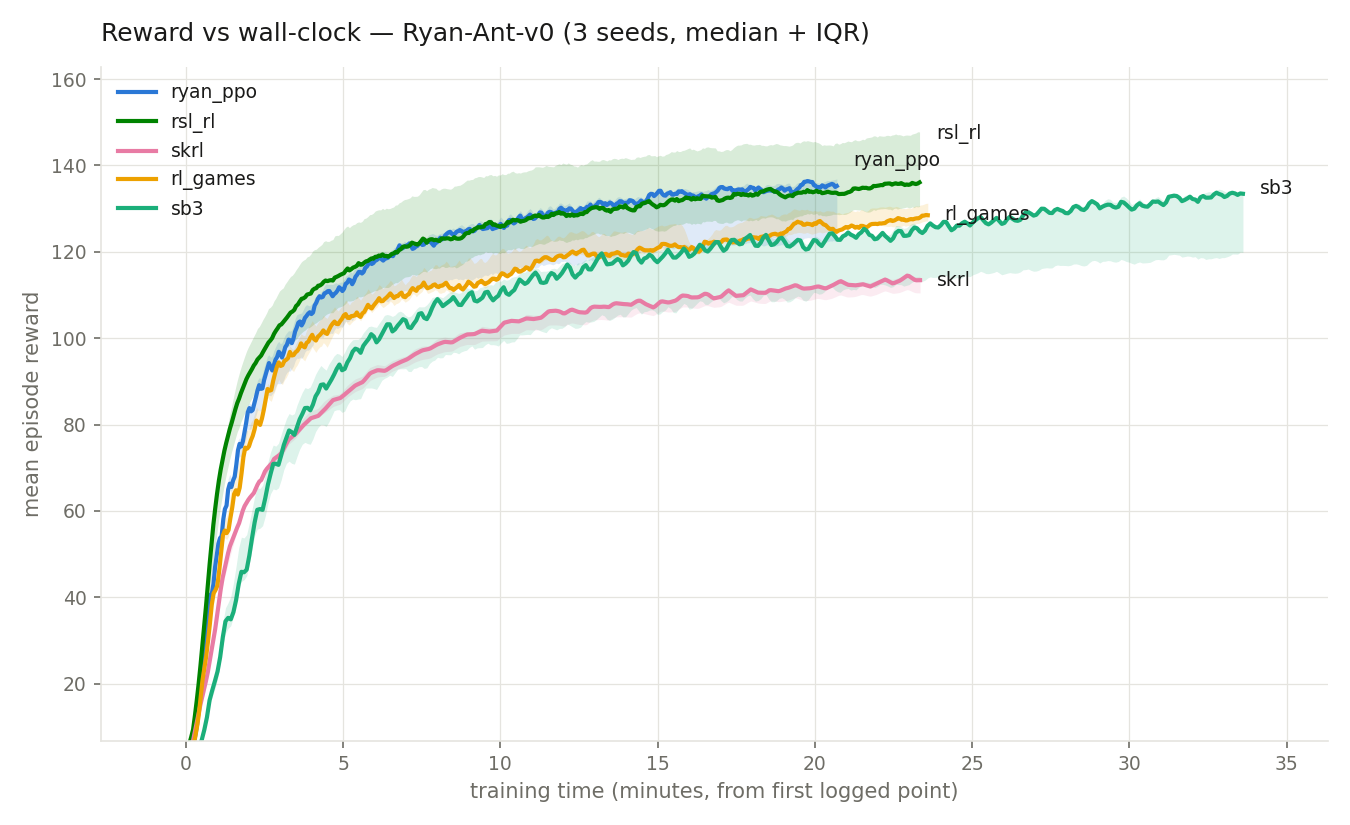
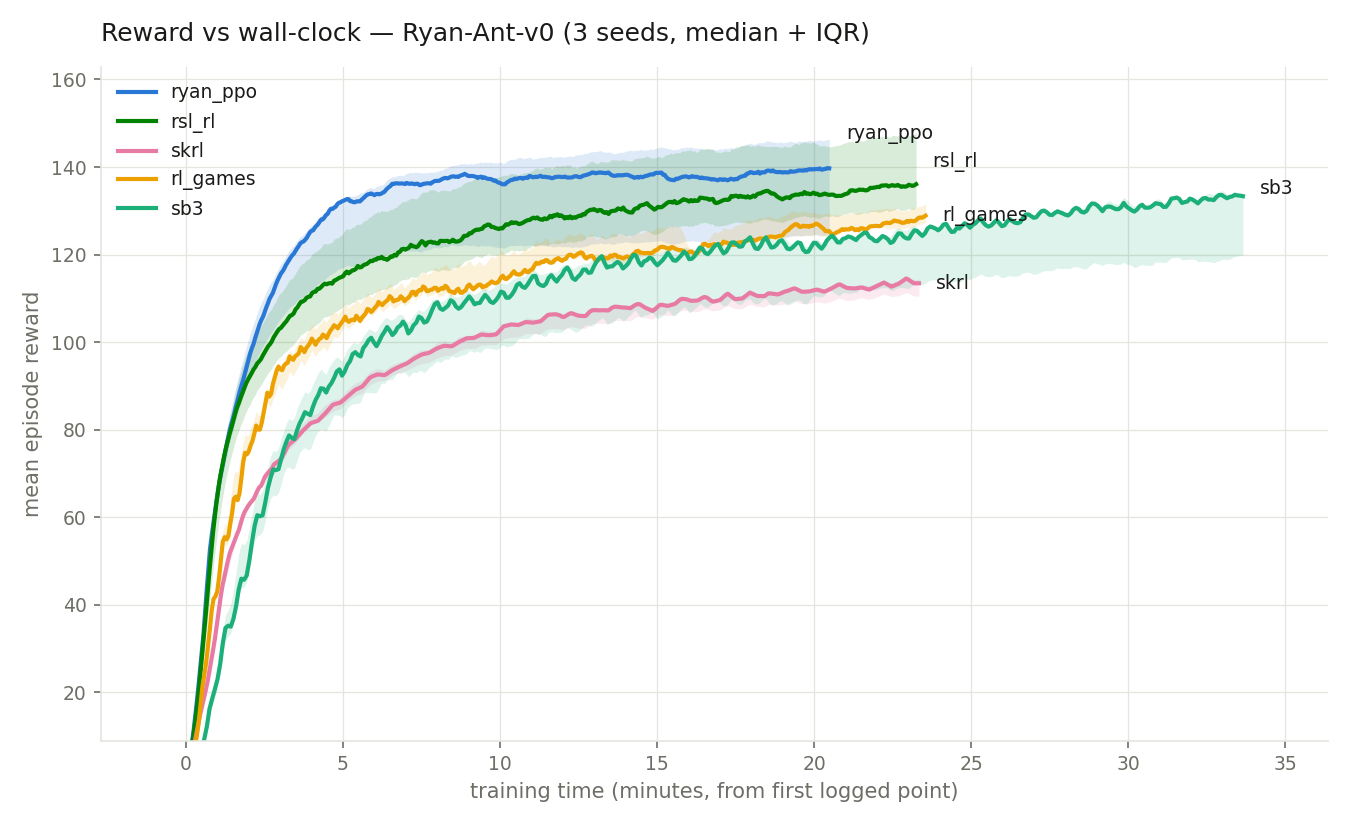
Updated README with up to date benchmark data.

diff --git a/README.md b/README.md
@@ -46,39 +46,39 @@ With the help of the python package [rich](https://github.com/textualize/rich), 
 Based on the recommendation in the official Isaac Lab documentation [here](https://docs.isaacsim.omniverse.nvidia.com/4.5.0/utilities/debugging/profiling_performance.html), I added support for code profiling using the Tracy profiler. This allows for live profiling of the performance of the training script. This will provide information for the time spent in each block of execution provide information that can be used to gauge and improve the efficiency of the training script, and various environments. To use this, simply add these flags to the script: "--profile --enable omni.kit.profiler.tracy".
 
 # Benchmarks
-I benchmarked this implementation against the four RL libraries bundled with Isaac Lab — [rsl_rl](https://github.com/leggedrobotics/rsl_rl), [rl_games](https://github.com/Denys88/rl_games), [skrl](https://github.com/Toni-SM/skrl), and [sb3](https://github.com/DLR-RM/stable-baselines3) — across three tasks of increasing difficulty: `Ryan-Cartpole-v0`, `Ryan-Ant-v0`, and `Ryan-Reach-SO-ARM101-Normalized-v0`. Every run used identical settings on the same GPU (RTX 3070) under Isaac Lab 3.0: 12,288 parallel environments, headless, and each library's agent config hyperparameter-matched to `ryan_ppo`. Each framework was run over **three seeds (42, 43, 44)**; the tables report the seed-averaged best mean episode reward reached during training, since the best checkpoint is the one deployed.
+I benchmarked this implementation against the four RL libraries bundled with Isaac Lab — [rsl_rl](https://github.com/leggedrobotics/rsl_rl), [rl_games](https://github.com/Denys88/rl_games), [skrl](https://github.com/Toni-SM/skrl), and [sb3](https://github.com/DLR-RM/stable-baselines3) — across three tasks of increasing difficulty: `Ryan-Cartpole-v0`, `Ryan-Ant-v0`, and `Ryan-Reach-SO-ARM101-Normalized-v0`. Every run used identical settings on the same GPU (RTX 3070) under Isaac Lab 3.0: 12,288 parallel environments, headless, and each library's agent config hyperparameter-matched to `ryan_ppo`. Each framework was run over **three seeds (42, 43, 44)**; the tables report the median across seeds of the final reward (averaged over the last 10% of the run) and of the best mean episode reward reached during training, since the best checkpoint is the one deployed.
 
 **Cartpole** — 1,000 iterations, 16 steps/env
 
-| Framework | Throughput (steps/s) | Wall-clock (min) | Best reward |
-|---|---:|---:|---:|
-| **ryan_ppo (this repo)** | **1,243,830** | **3.0** | 4.961 |
-| rl_games | 1,093,053 | 3.3 | 4.962 |
-| skrl | 1,073,521 | 3.3 | 4.956 |
-| rsl_rl | 1,033,656 | 3.4 | 4.958 |
-| sb3 | 666,278 | 5.2 | 4.297 |
+| Framework | Throughput (steps/s) | Wall-clock (min) | Final reward | Best reward |
+|---|---:|---:|---:|---:|
+| **ryan_ppo (this repo)** | **1,278,739** | **2.9** | 4.897 | 4.947 |
+| skrl | 1,071,080 | 3.3 | 4.733 | 4.956 |
+| rl_games | 1,049,859 | 3.4 | 4.938 | 4.960 |
+| rsl_rl | 1,032,572 | 3.4 | 4.933 | 4.958 |
+| sb3 | 619,827 | 5.5 | 4.886 | 4.911 |
 
 **Ant** — 2,000 iterations, 32 steps/env
 
-| Framework | Throughput (steps/s) | Wall-clock (min) | Best reward |
-|---|---:|---:|---:|
-| **ryan_ppo (this repo)** | **624,188** | **21.6** | **136.6** |
-| rsl_rl | 556,776 | 24.1 | 136.1 |
-| skrl | 555,062 | 24.2 | 114.6 |
-| rl_games | 554,338 | 24.2 | 129.1 |
-| sb3 | 387,591 | 34.4 | 134.3 |
+| Framework | Throughput (steps/s) | Wall-clock (min) | Final reward | Best reward |
+|---|---:|---:|---:|---:|
+| **ryan_ppo (this repo)** | **634,459** | **21.3** | **139.2** | **140.1** |
+| rsl_rl | 563,325 | 23.8 | 135.5 | 136.1 |
+| skrl | 555,006 | 24.2 | 113.1 | 114.6 |
+| rl_games | 553,812 | 24.2 | 127.3 | 129.2 |
+| sb3 | 385,666 | 34.5 | 132.9 | 134.3 |
 
-**Reach** — 7,500 iterations, 24 steps/env
+**Reach** — 5,000 iterations, 24 steps/env
 
-| Framework | Throughput (steps/s) | Wall-clock (min) | Best reward |
-|---|---:|---:|---:|
-| **ryan_ppo (this repo)** | **1,283,631** | **29.5** | **0.927** |
-| skrl | 1,084,497 | 34.7 | 0.861 |
-| rl_games | 1,072,870 | 35.1 | 0.900 |
-| rsl_rl | 844,198 | 44.3 | 0.640 |
-| sb3 | 627,026 | 59.5 | 0.727 |
+| Framework | Throughput (steps/s) | Wall-clock (min) | Final reward | Best reward |
+|---|---:|---:|---:|---:|
+| **ryan_ppo (this repo)** | **1,315,430** | **19.4** | 0.920 | 0.926 |
+| skrl | 1,089,609 | 23.2 | 0.948 | 0.959 |
+| rl_games | 1,074,289 | 23.6 | 0.634 | 0.932 |
+| rsl_rl | 848,041 | 29.7 | 0.751 | 0.882 |
+| sb3 | 627,703 | 39.8 | 0.264 | 0.892 |
 
-Across all three tasks, `ryan_ppo` posts the **highest throughput and fastest wall-clock** of any framework tested — 12–18% ahead of the next-quickest library, and up to 2× faster end-to-end than SB3. Its reward is **at or above the best of any library** on every task: it ties the field on Cartpole, edges rsl_rl for the top spot on Ant (while finishing several minutes sooner), and reaches the highest reward on Reach. On Reach it also *holds* that peak — where the other frameworks peak mid-run and then regress toward ~0.6, `ryan_ppo` stays near its best through the end of training (final ≈ 0.91 vs best ≈ 0.93).
+Across all three tasks, `ryan_ppo` posts the **highest throughput and fastest wall-clock** of any framework tested — 13–21% ahead of the next-quickest library, and roughly 2× faster end-to-end than SB3. On peak reward the result is mixed: it takes the top spot on Ant, while skrl reaches a higher peak on Reach (0.959 vs 0.926) and rl_games edges it on Cartpole (4.960 vs 4.947, a margin small enough that every GPU library has effectively solved the task). Where it separates from the field is in **holding** what it reaches. On Reach it keeps 99.4% of its peak through the end of training (final 0.920 vs best 0.926), where rl_games falls to 68% of its own peak and sb3 to 30%, and its three seeds finish within 0.001 of each other (0.9195–0.9203) against skrl's 0.813–0.969.
 
 <div align="center">
   <img src="https://raw.githubusercontent.com/ryan-donald/ppo/main/images/benchmark_cartpole_reward_vs_time.png" width="100%" alt="Cartpole reward vs wall-clock time" />
